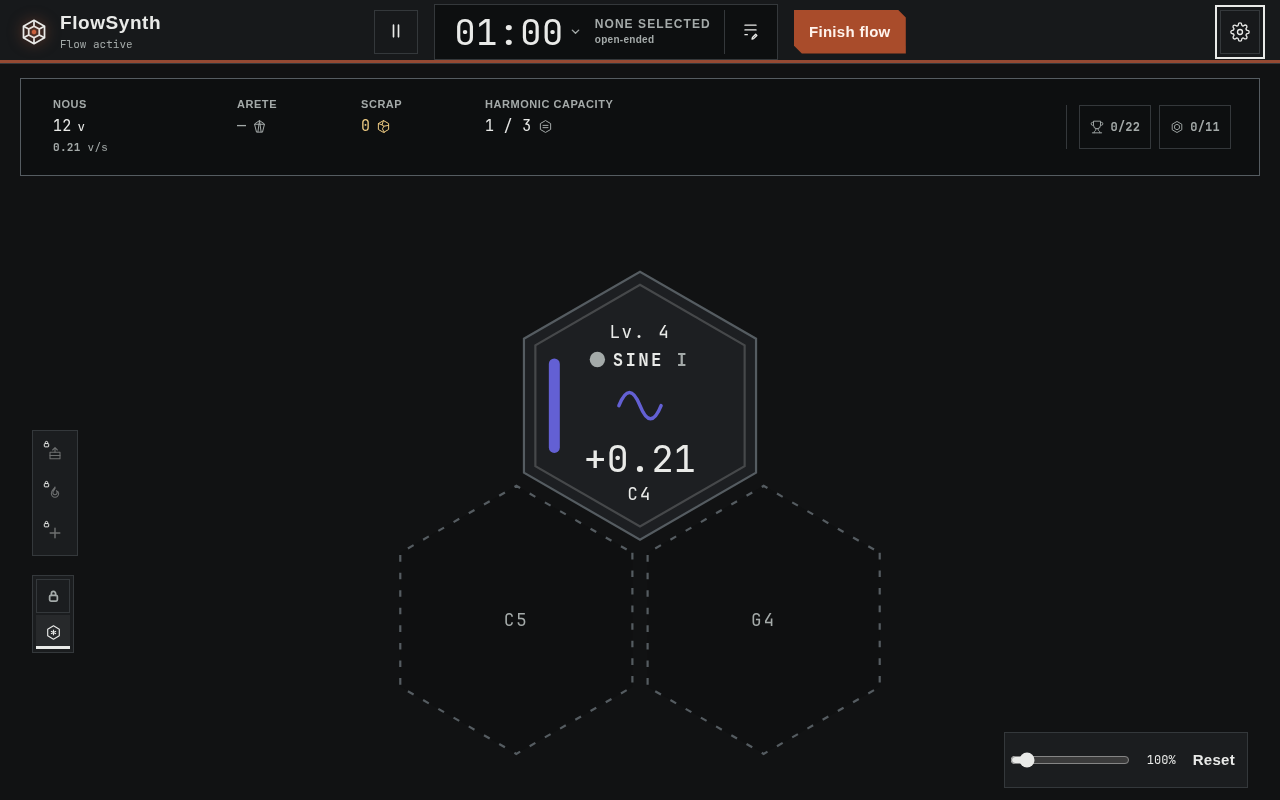
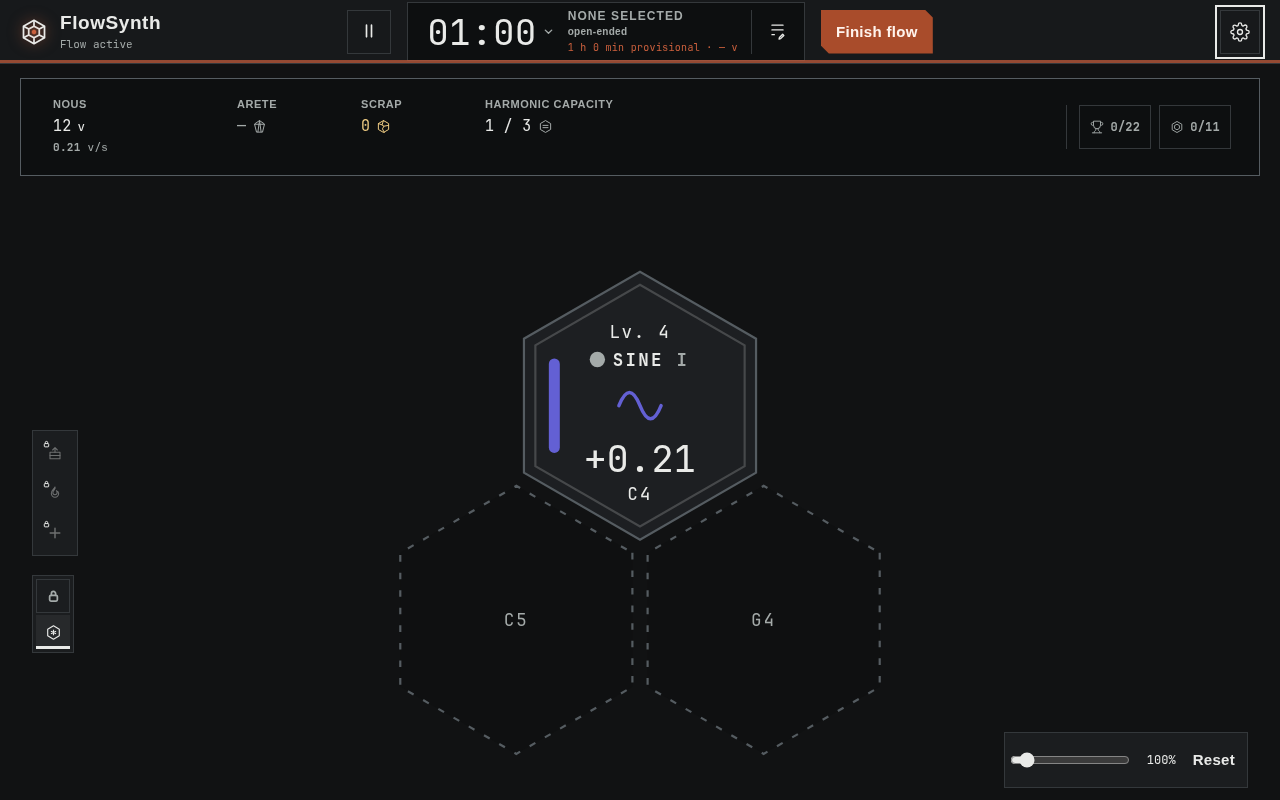
Recapture save-integrity failure copy with the honesty refusal (#486)

Changed region(s): [[0.2812, 0.0, 0.75, 0.0938]]

diff --git a/docs/evidence/486-save-integrity/README.md b/docs/evidence/486-save-integrity/README.md
@@ -1,11 +1,12 @@
 # #486 — save integrity: the failure path's copy, refusals, and recovery
 
-Captured on 2026-10-30 from the verified checkout in `provenance.json`:
-source commit `d7627a91425c2ae85db433fa75a48a43081b6a6f`, clean source, after
-all save-integrity changes. Desktop is 1280×800; phone is 390×844. The
-capture script drives the real settings door for export, the dev clock for
-the live update, and installs the fresh-start scenario on an isolated
-in-memory save — the player's persistent save is never read or written.
+Captured on 2026-10-31 from the verified checkout in `provenance.json`:
+source commit `fa993fa`, clean source, after all save-integrity changes
+including the review round's retention and copy fixes. Desktop is
+1280×800; phone is 390×844. The capture script drives the real settings
+door for export, the dev clock for the live update, the honesty report's
+answer, and installs the fresh-start scenario on an isolated in-memory
+save — the player's persistent save is never read or written.
 
 ## Reproduce
 
@@ -33,6 +34,7 @@ Every row has a `desktop-` and a `phone-` PNG.
 | `save-failure.png` | A NaN bank on the isolated save; `app.save()` refuses (JSON would write null) and the ledger reads `— ν` — the figure that refused is what stands. |
 | `export-refusal.png` | Settings → Export save with the unrepresentable state: the modal's lead reads `These figures exceed what a save can hold — nothing was exported.`, with the technical path beneath; the textarea and download button are absent. |
 | `advance-refusal.png` | A live session whose board rate left the range (the synth at Lv. 5000): `devAdvance(60)` refuses the span — the clock stays 00:00, the balance 0 ν, the rate `— ν/s`. The refused update left nothing behind, visible on the face. |
+| `honesty-refusal.png` | The honesty report's answer against an unrepresentable bucket: the settlement refuses whole — the header's session line reads `1 h 0 min provisional · — ν` (the pool stays outstanding), no minute credited. |
 | `recovery.png` | The board back at Lv. 4: the next update banks (12.44 ν) and the dev clock's own line stands — the refusal streak ended. The subsequent save succeeds. |
 
 The three failure lines report through the existing `#status` live region
@@ -42,7 +44,8 @@ from screenshots of a screen-reader-only region:
 
 - `Saving failed — your last valid save stands untouched.`
 - `These figures exceed what a save can hold — nothing was exported.` (modal lead)
-- `The board's figures outran the instrument's range — the refused moments left nothing behind.`
+- `The board's figures outran the instrument's range — the refused update left nothing behind.`
+- `The provisional nous cannot bank safely, so nothing was credited.`
 
 None claims a recovery happened.
 
